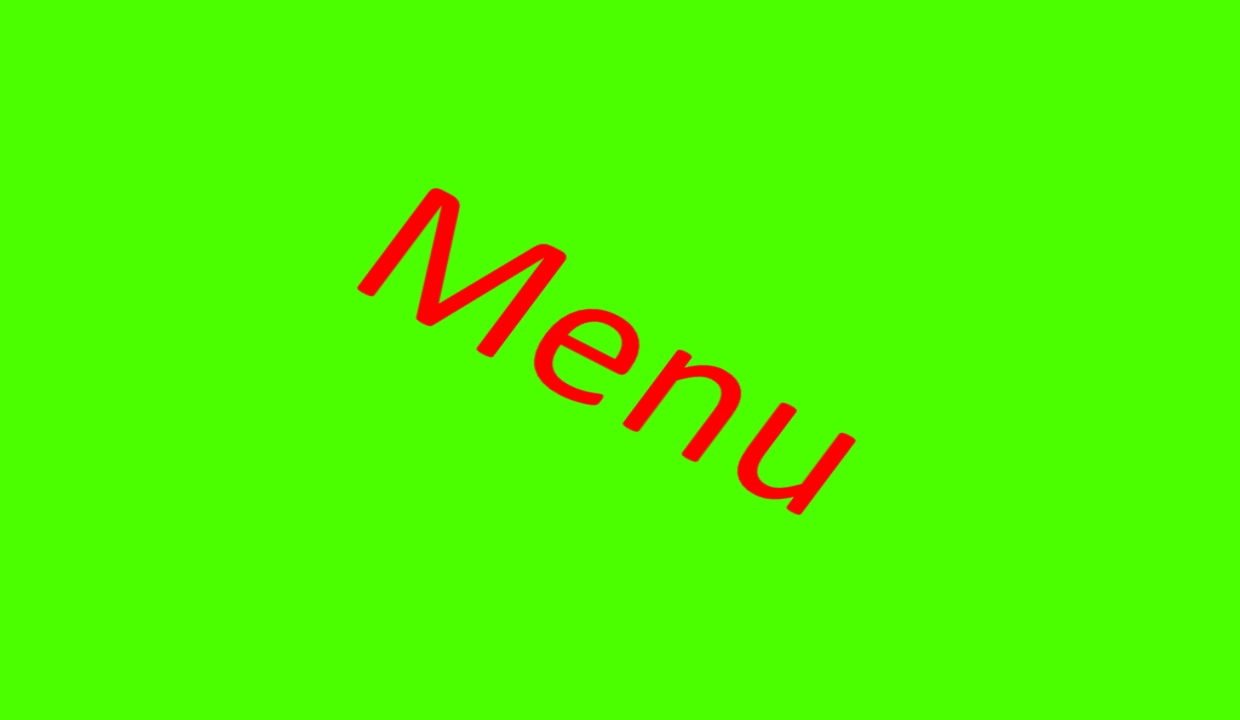
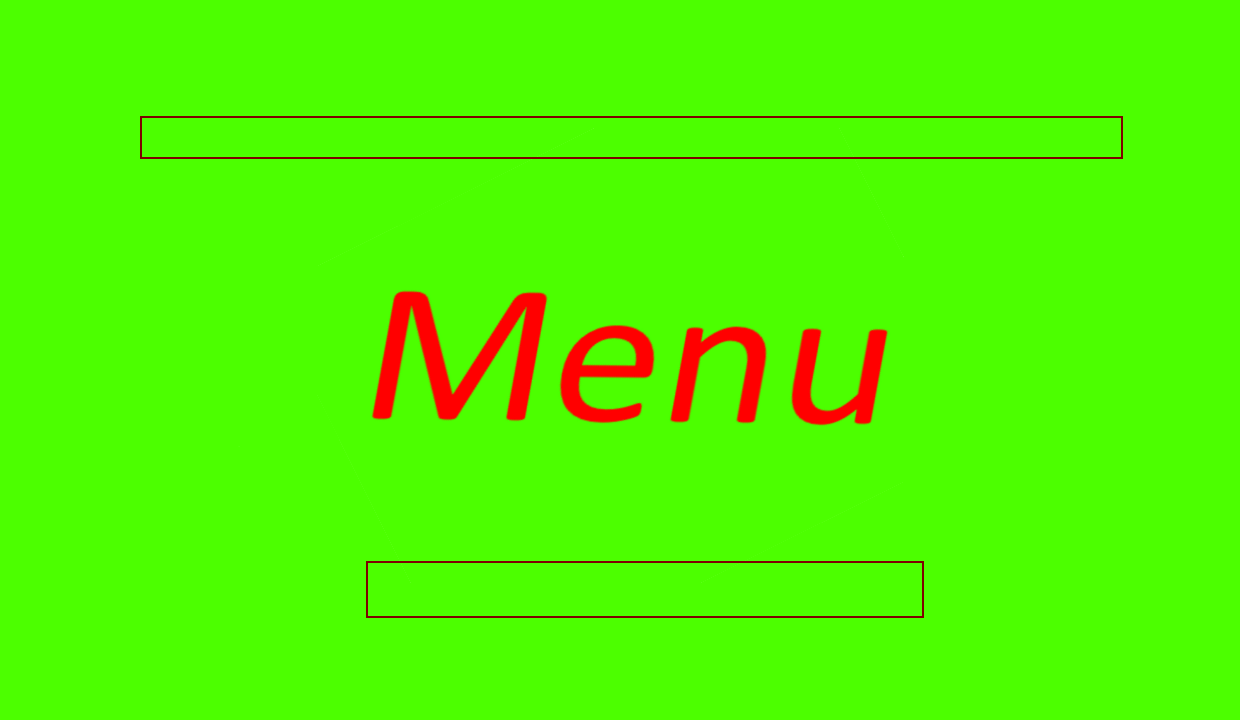
Update renderer and sprite to allow sprite rotation

Changed region(s): [[0.2758, 0.2444, 0.7355, 0.7028]]

diff --git a/Hack/src/Hack.cpp b/Hack/src/Hack.cpp
@@ -5,7 +5,7 @@
 #include <string>
 #include "include\Renderer.h"
 #include "include\Sprite.h"
-
+#include "include\KeyBoardInput.h"
 
 //Screen dimension constants
 const int SCREEN_WIDTH = 1248;			//SDL
@@ -70,7 +70,7 @@ int wmain()
 			while (!quit)
 			{
 				while (SDL_PollEvent(&e) != 0) {
-					//KeyBoardInput::GetInstance()->updateKeyboard(e);
+					KeyBoardInput::GetInstance()->updateKeyboard(e);
 					switch (e.type)
 					{
 					case SDL_QUIT:
@@ -97,10 +97,10 @@ int wmain()
 				}//end switch
 
 				 // Escape button
-				//if (KeyBoardInput::GetInstance()->isKeyPressed(SDLK_ESCAPE))
-				//{
-				//	quit = true;
-				//}
+				if (KeyBoardInput::GetInstance()->isKeyPressed(SDLK_ESCAPE))
+				{
+					quit = true;
+				}
 
 			}//end while wuit
 		}//end else
@@ -115,9 +115,10 @@ void Init()
 
 	gameState = MENU;
 	backGroundImage = new Sprite();
-	SDL_Rect destination = { 0, 0, SCREEN_WIDTH, SCREEN_HEIGHT };
+	SDL_Rect destination = { SCREEN_WIDTH/2 ,SCREEN_HEIGHT/2 , SCREEN_WIDTH, SCREEN_HEIGHT };
 	SDL_Rect Source = { 0, 0, 1240, 720 };
 	backGroundImage->Init("Assets/menu.png", destination, Source);
+	backGroundImage->SetOffset(SDL_Point{ SCREEN_WIDTH/2,SCREEN_HEIGHT/2});
 }
 void DrawGame()
 {

diff --git a/Hack/src/Sprite.cpp b/Hack/src/Sprite.cpp
@@ -3,8 +3,8 @@
 
 Sprite::Sprite()
 {
-	x_offset = 0;
-	y_offset = 0;
+	m_offset = {0,0};
+	rotation = 0;
 }
 void Sprite::Init(std::string imagePath, SDL_Rect destination, SDL_Rect source)
 {
@@ -33,15 +33,19 @@ void Sprite::SetSourceRect(SDL_Rect source)
 { 
 	m_Source = source;
 }
-void Sprite::SetOffset(int x, int y)
+void Sprite::SetOffset(SDL_Point offset)
 {
-	x_offset = x;
-	y_offset = y;
+	m_offset = offset;
 }
+void Sprite::SetRotation(double rot)
+{
+	rotation = rot;
+}
+
 void Sprite::Draw()
 {
-	SDL_Rect newDest{ m_Destrination.x - x_offset, m_Destrination.y - y_offset, m_Destrination.w, m_Destrination.h };
-	Renderer::GetInstance()->DrawImage(&m_Source, &newDest, myTexture);
+	SDL_Rect newDest{ m_Destrination.x - m_offset.x, m_Destrination.y - m_offset.y, m_Destrination.w, m_Destrination.h };
+	Renderer::GetInstance()->DrawImage(&m_Source, &newDest, myTexture,rotation,&m_offset);
 }
 SDL_Texture* Sprite::loadTexture(std::string path, SDL_Renderer* gRenderer){
 	//The final texture

diff --git a/Hack/include/Sprite.h b/Hack/include/Sprite.h
@@ -18,13 +18,15 @@ public :
 	void SetHeight(float h);
 	void SetDestinationRect(SDL_Rect destination);
 	void SetSourceRect(SDL_Rect source);
-	void SetOffset(int x, int y);/*offset is relative width and height of the sprite not the texture */
+	void SetOffset(SDL_Point offset);/*offset is relative width and height of the sprite not the texture */
+	void SetRotation(double rot);
 	void Draw();
 
 private:
 	SDL_Texture* loadTexture(std::string path, SDL_Renderer*);
 	SDL_Texture* myTexture;
-	int x_offset, y_offset;
+	SDL_Point m_offset;
 	SDL_Rect m_Destrination, m_Source;
+	double rotation;
 };
 #endif

diff --git a/Hack/src/Renderer.cpp b/Hack/src/Renderer.cpp
@@ -48,6 +48,11 @@ void Renderer::Draw(SDL_Rect rectangle){
 void Renderer::DrawImage(SDL_Rect *source, SDL_Rect *dest, SDL_Texture *text ){
 	SDL_RenderCopy(gRenderer, text, source, dest);	//Copy the image to the rendering object.
 }
+void Renderer::DrawImage(SDL_Rect *source, SDL_Rect *dest, SDL_Texture *text, double angle, SDL_Point* centre) {
+	SDL_RendererFlip flip = SDL_FLIP_NONE;
+	SDL_RenderCopyEx(gRenderer, text, source, dest, angle, centre, flip);//Copy the image to the rendering object.
+	
+}
 void Renderer::ClearRenderer()
 {
 	// Sets colour that we're clearing the screen with

diff --git a/Hack/include/Button.h b/Hack/include/Button.h
@@ -1,0 +1,38 @@
+#ifndef _BUTTON_H_
+#define _BUTTON_H_
+
+#include <iostream>
+#include <stdio.h>
+
+#include <windows.h>
+
+#include <random>
+#include <string>
+#include <cmath>
+
+#include <fstream>
+
+#include <SDL.h>
+#include "include\Sprite.h"
+#include "include\Renderer.h"
+
+static class Button
+{
+private:
+	SDL_Rect rect;
+	Sprite* m_sprite;
+	
+public:
+
+	Button();
+	~Button()
+	{
+		delete m_sprite;
+	}
+	void Init(SDL_Rect pos,  std::string path);
+	bool IsClicked(int x, int y);
+	void Draw();
+	
+
+};
+#endif

diff --git a/Hack/src/Button.cpp b/Hack/src/Button.cpp
@@ -1,0 +1,25 @@
+#include "include\Button.h"
+
+
+Button::Button(){
+}
+void Button::Init(SDL_Rect pos, std::string path){
+	rect = pos;
+	SDL_Rect tempSRC{0,0,323,118};
+	m_sprite = new Sprite();
+	m_sprite->Init(path, pos, tempSRC);
+}
+bool Button::IsClicked(int x , int y){
+
+	if (rect.x + rect.w > x && rect.x < x && rect.y + rect.h > y && rect.y < y)
+	{
+		return true;
+	}
+	else
+	{
+		return false;
+	}
+}
+void Button::Draw(){
+	m_sprite->Draw();
+}

diff --git a/Hack/include/Renderer.h b/Hack/include/Renderer.h
@@ -31,6 +31,7 @@ public:
 	void RenderScreen();
 	void Draw(SDL_Rect rectangle);
 	void DrawImage(SDL_Rect*, SDL_Rect*, SDL_Texture*);
+	void DrawImage(SDL_Rect *source, SDL_Rect *dest, SDL_Texture *text, double angle, SDL_Point* centre);
 	SDL_Renderer* Get_SDL_RENDERER();
 };
 #endif
